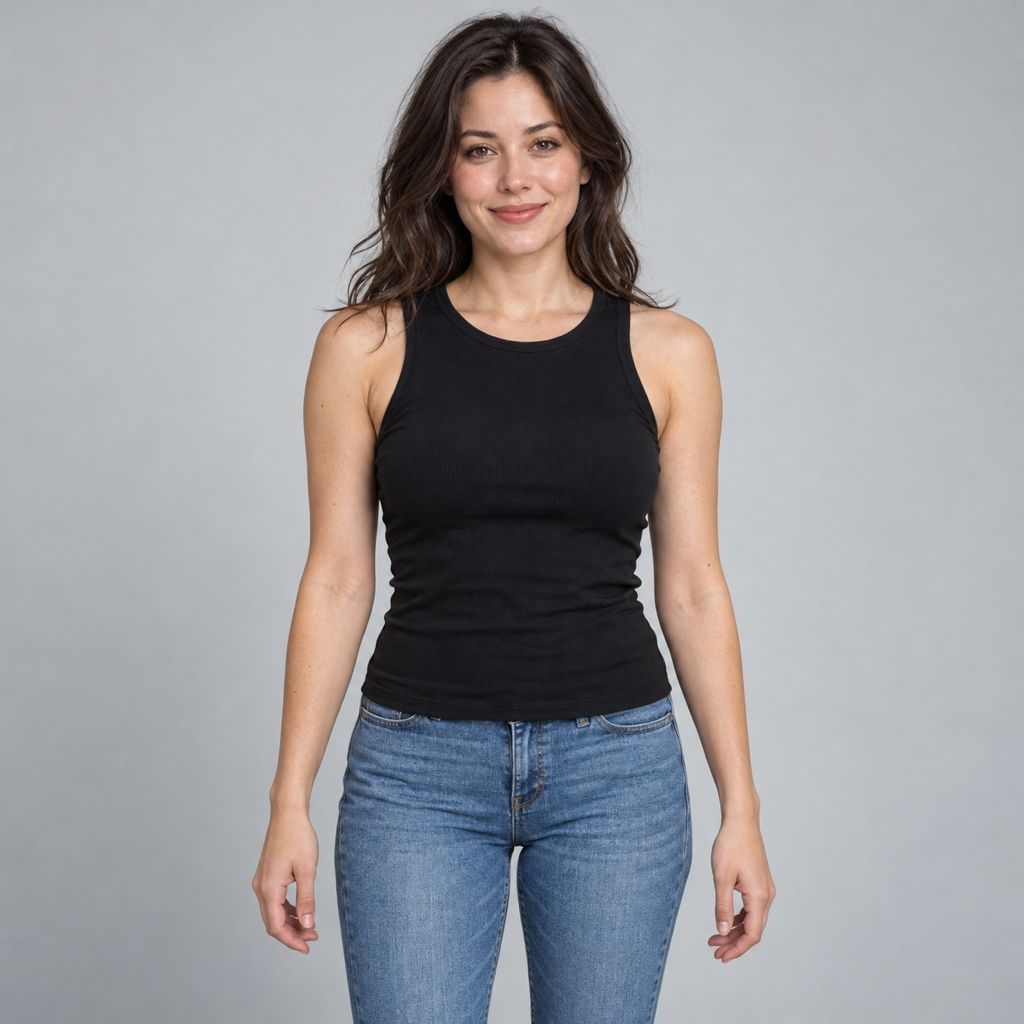
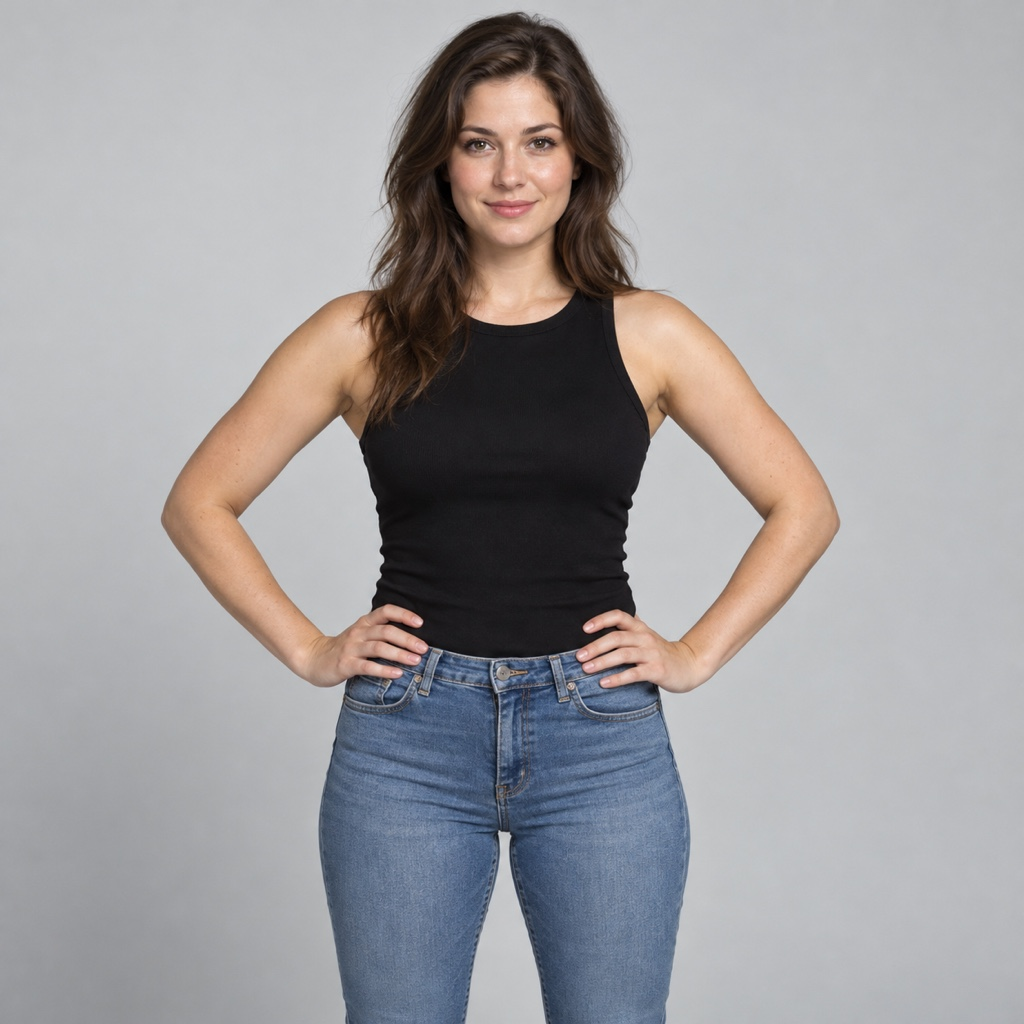
test(fixtures): 부유방을 잴 수 있는 상반신과 엉덩이가 보이는 커플 사진으로 다시 만듦
torso-01은 팔을 내린 자세라 부유방 높이에서 위팔이 옆가슴에 붙어 효과를 잴 수 없어 손을 허리에 짚은 자세로 바꿨다.
couple-body-01은 엉덩이에서 잘려 Vision 엉덩이 신뢰도가 0.3 아래라 정강이까지 보이게 바꿨다.
labels.json(사람 속성·notes)과 README(재생성 사유, 생성 호출 모두 7번), 스펙 7.1 사진 표를 고쳤다.

Changed region(s): [[0.1562, 0.0, 0.8438, 1.0]]

diff --git a/shared/fixtures/body/README.md b/shared/fixtures/body/README.md
@@ -8,22 +8,28 @@
 - 날짜: 2026-10-21.
 - 원본: 1024×1024 PNG. 저장소에는 `sips -Z 1024 -s format jpeg -s formatOptions 90`으로 바꾼 JPEG만 둔다.
 - 모든 프롬프트에 "fictional people who do not resemble any real person or celebrity, no text, no watermark, no logos"를 넣었다.
-- 생성 호출은 다섯 번이었다.
+- 생성 호출은 모두 일곱 번이었다(첫 세트 다섯 번, 다시 만든 두 장에 한 번씩).
 - `torso-01`의 첫 프롬프트("fitted sleeveless black top … arms held slightly away from the torso")는 이미지 도구의 안전 필터가 거절해 사진이 나오지 않았다. 옷차림과 팔 자세를 풀어 쓴 두 번째 프롬프트로 만들었다.
+
+### 다시 만든 사진(2026-10-21)
+
+- `torso-01`: 첫 사진은 팔을 내린 자세라 부유방 높이(어깨~엉덩이 27%)에서 위팔이 옆가슴에 붙어 부유방 효과를 잴 수 없었다. 두 손을 허리에 짚고 팔꿈치를 벌려 위팔과 옆가슴 사이로 배경이 보이게 다시 만들었다. 화면 오른쪽은 겨드랑이 가까이에서 틈이 좁다.
+- `couple-body-01`: 첫 사진은 엉덩이에서 잘려 Vision 엉덩이 관절 신뢰도가 0.3 아래(0.277·0.290)였다. 머리부터 정강이까지 보이게, 두 사람이 가깝되 닿지 않게 다시 만들었다.
+- 두 장 모두 codex 샌드박스가 작업 폴더 저장을 막아 `~/.codex/generated_images`의 생성 파일을 복사했다(원본 1254×1254, 1024 JPEG로 변환).
 
 | 파일 | 프롬프트 요지 |
 | --- | --- |
 | `chin-01.jpg` | 30대 후반 남자, 정면 머리·어깨, 옅은 미소, 턱선 아래 부드러운 이중턱, 밝은 회색 무지 배경, 깃 셔츠, 얼굴 폭 사진의 약 35% |
-| `torso-01.jpg` | 20대 후반 여자, 정면 머리부터 엉덩이까지, 검은 민소매 상의와 청바지, 팔은 자연스럽게 내리되 손을 몸에서 조금 떼어 팔과 허리 사이로 배경이 보임, 밝은 회색 무지 배경 |
-| `couple-body-01.jpg` | 30대 남녀가 나란히 정면, 머리부터 엉덩이까지, 어깨가 거의 닿음, 왼쪽 남자, 몸에 맞는 티셔츠, 단순한 실내 배경 |
+| `torso-01.jpg` | 20대 후반 여자, 정면 머리부터 허벅지 중간까지, 두 손을 허리에 짚고 팔꿈치를 바깥으로 벌려 위팔과 옆가슴·허리 사이로 배경 삼각형이 보임, 검은 민소매 상의와 청바지, 밝은 회색 무지 배경 |
+| `couple-body-01.jpg` | 30대 남녀가 나란히 정면, 머리부터 무릎 아래까지(양쪽 엉덩이·무릎이 보임), 어깨는 거의 닿되 엉덩이 사이에 틈, 왼쪽 남자, 팔은 몸통에서 살짝 뗌, 몸에 맞는 무지 티셔츠와 청바지, 단순한 실내 배경 |
 | `lines-01.jpg` | 30대 여자, 정면 머리부터 엉덩이까지, 팔을 몸통에서 조금 뗌, 흰 타일 벽 앞, 좌우에 곧은 세로 문틀과 가로 타일선, 고른 조명 |
 
 ## 용도
 
 - 저장소 안 자동 수용 테스트(`apple/Tests/MellowRenderingTests/Fixtures/body/`에 사본).
   - `chin-01`: 이중턱 워프와 턱밑 그늘.
-  - `torso-01`: 허리·팔 보호와 실루엣 이동.
-  - `couple-body-01`: 얼굴과 몸의 짝, 사람별 체형 값.
+  - `torso-01`: 부유방·가슴 옆선, 허리·팔 보호와 실루엣 이동, 격자 합성 직선.
+  - `couple-body-01`: 얼굴과 몸의 짝, 사람별·성별 체형 값, 옆 사람 보호.
   - `lines-01`: 실루엣 근처를 뺀 배경 직선 보존.
 - 수동 확인.
 

diff --git a/docs/superpowers/specs/2026-10-21-beauty-i-chin-body-design.md b/docs/superpowers/specs/2026-10-21-beauty-i-chin-body-design.md
@@ -251,8 +251,8 @@ extension PortraitScope {
 | 파일 | 내용 |
 |---|---|
 | `chin-01.jpg` | 30~40대 남성 정면, 이중턱이 보임, 단색 배경, 셔츠 깃 |
-| `torso-01.jpg` | 20~30대 여성 상반신 정면, 몸에 붙는 민소매 상의, 팔이 몸통에서 조금 떨어짐, 단색 배경 |
-| `couple-body-01.jpg` | 남녀 상반신 정면 나란히, 두 사람 어깨가 맞닿거나 거의 닿음, 몸통이 보임, 실내 배경 |
+| `torso-01.jpg` | 20~30대 여성 상반신 정면, 몸에 붙는 민소매 상의, 두 손을 허리에 짚어 위팔과 옆가슴 사이로 배경이 보임(I3 중 다시 만듦), 단색 배경 |
+| `couple-body-01.jpg` | 남녀 정면 나란히 머리부터 정강이까지(엉덩이·무릎이 보임, I3 중 다시 만듦), 두 사람 어깨가 거의 닿음, 몸통이 보임, 실내 배경 |
 | `lines-01.jpg` | 여성 상반신, 뒤에 문틀·타일·창틀 직선, 팔이 몸통에서 떨어짐 |
 
 #### 7.2 수용 테스트 (`ShapeAcceptanceTests.swift`, 실제 Vision)
